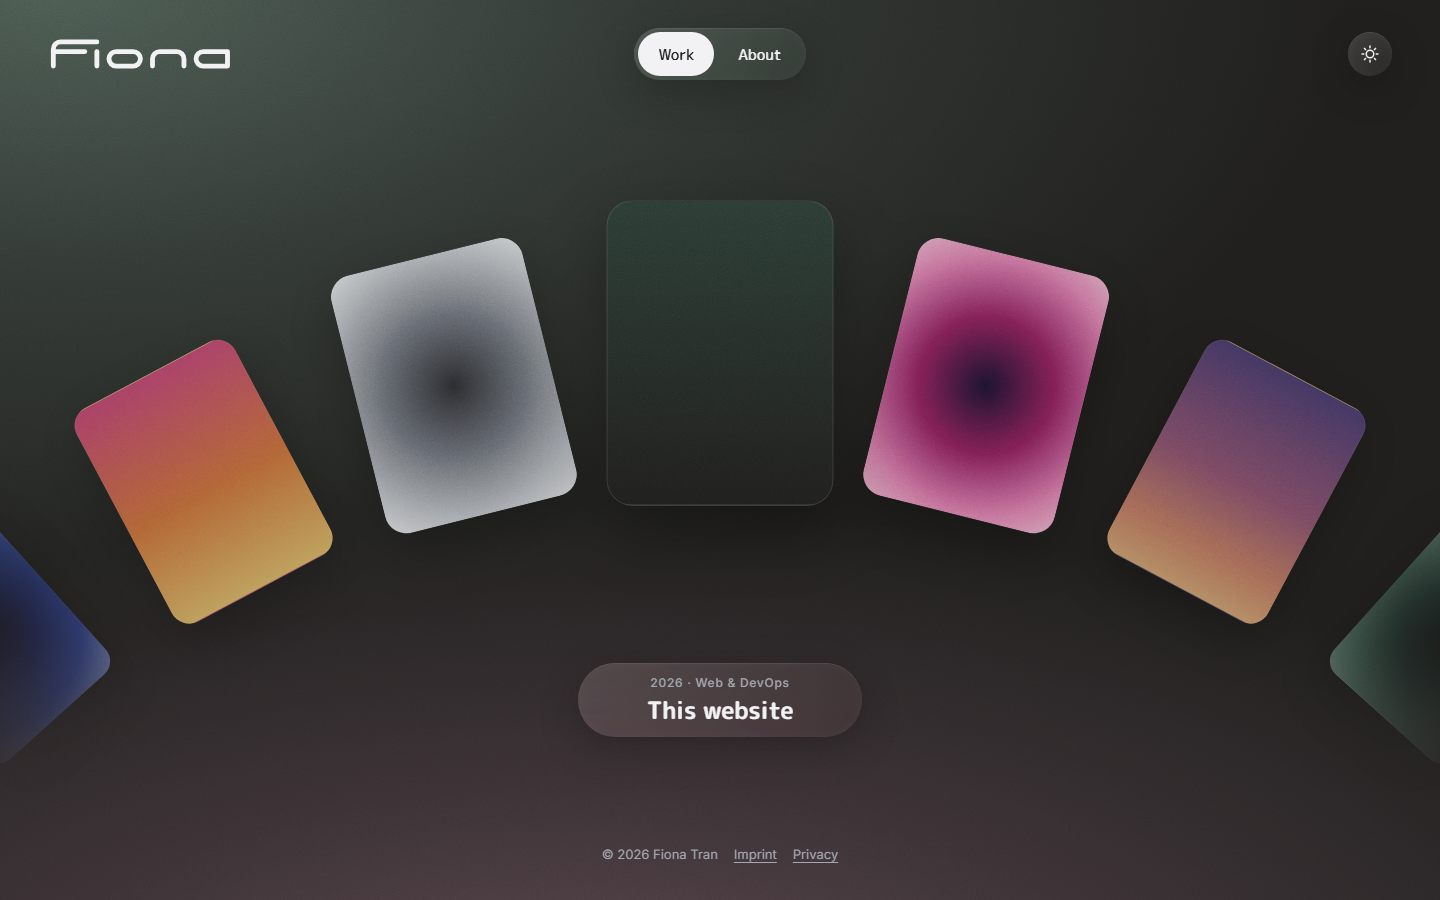
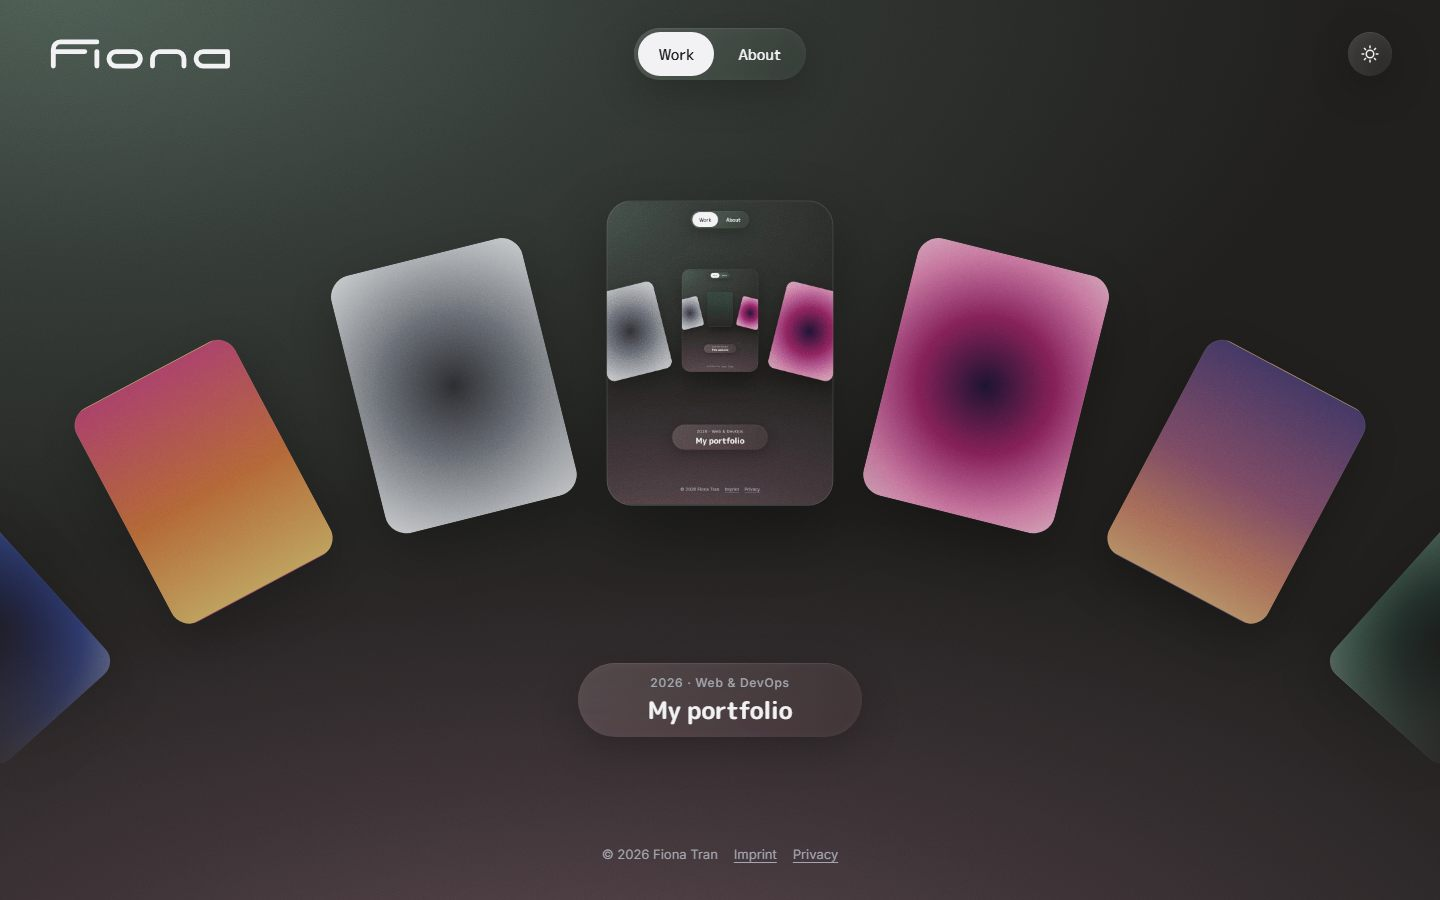
Portfolio project: rename to "My portfolio" and show the branding sheet
The project is now called "My portfolio"; screenshots were retaken so
they show the new title. The second gallery image is the branding sheet
(favicon sizes, link preview and favicon variants A–F) instead of the
mobile screenshot, to show the design work behind the logo.

diff --git a/site/index.html b/site/index.html
@@ -193,11 +193,11 @@ shadow: '0 12px 40px rgba(20,20,40,0.08)', cardShadow: '0 24px 50px rgba(20,20,4
 glowA: 'rgba(159,227,201,0.55)', glowB: 'rgba(242,167,195,0.45)', grain: '0.22', blend: 'multiply'
 };
 const P = [
-{ t: 'This website', c: 'Web & DevOps', featured: true, y: '2026', team: 'Solo', role: 'Design, frontend & deployment',
-  desc: 'My portfolio – the page you are looking at. A small static site without a framework: a lightweight custom runtime renders the pages, nginx serves them from a Docker container.',
+{ t: 'My portfolio', c: 'Web & DevOps', featured: true, y: '2026', team: 'Solo', role: 'Design, frontend & deployment',
+  desc: 'The page you are looking at. A small static site without a framework: a lightweight custom runtime renders the pages, nginx serves them from a Docker container.',
   part: 'I built it end to end, from the card wheel and the about folder to the infrastructure. Every push to main builds a multi-arch image, smoke-tests it and rolls it out automatically via GitOps (GitHub Actions → GHCR → Portainer). The tricky parts were smooth animations without a framework and keeping it fast and accessible: dark mode, reduced motion, keyboard navigation.',
   tech: ['HTML & CSS', 'JavaScript', 'nginx', 'Docker', 'GitHub Actions'],
-  img: '/projects/website-desktop-dark.jpg', shots: ['/projects/website-desktop-light.jpg', '/projects/website-mobile.jpg'],
+  img: '/projects/website-desktop-dark.jpg', shots: ['/projects/website-desktop-light.jpg', '/projects/website-branding.webp'],
   links: [{ label: 'Live site', url: 'https://fiona-tran.com' }, { label: 'Source on GitHub', url: 'https://github.com/fionatrn/portfolio' }],
   g: 'linear-gradient(180deg, #2A3A33 0%, #1F1E1D 100%)' },
 { t: 'Project 01', c: 'Creative coding', tech: ['[TypeScript]', '[Figma]'], g: 'radial-gradient(circle at 50% 50%, #1A1030 0%, #8E1F5C 42%, #E07AAE 78%, #F2B5D0 100%)' },
